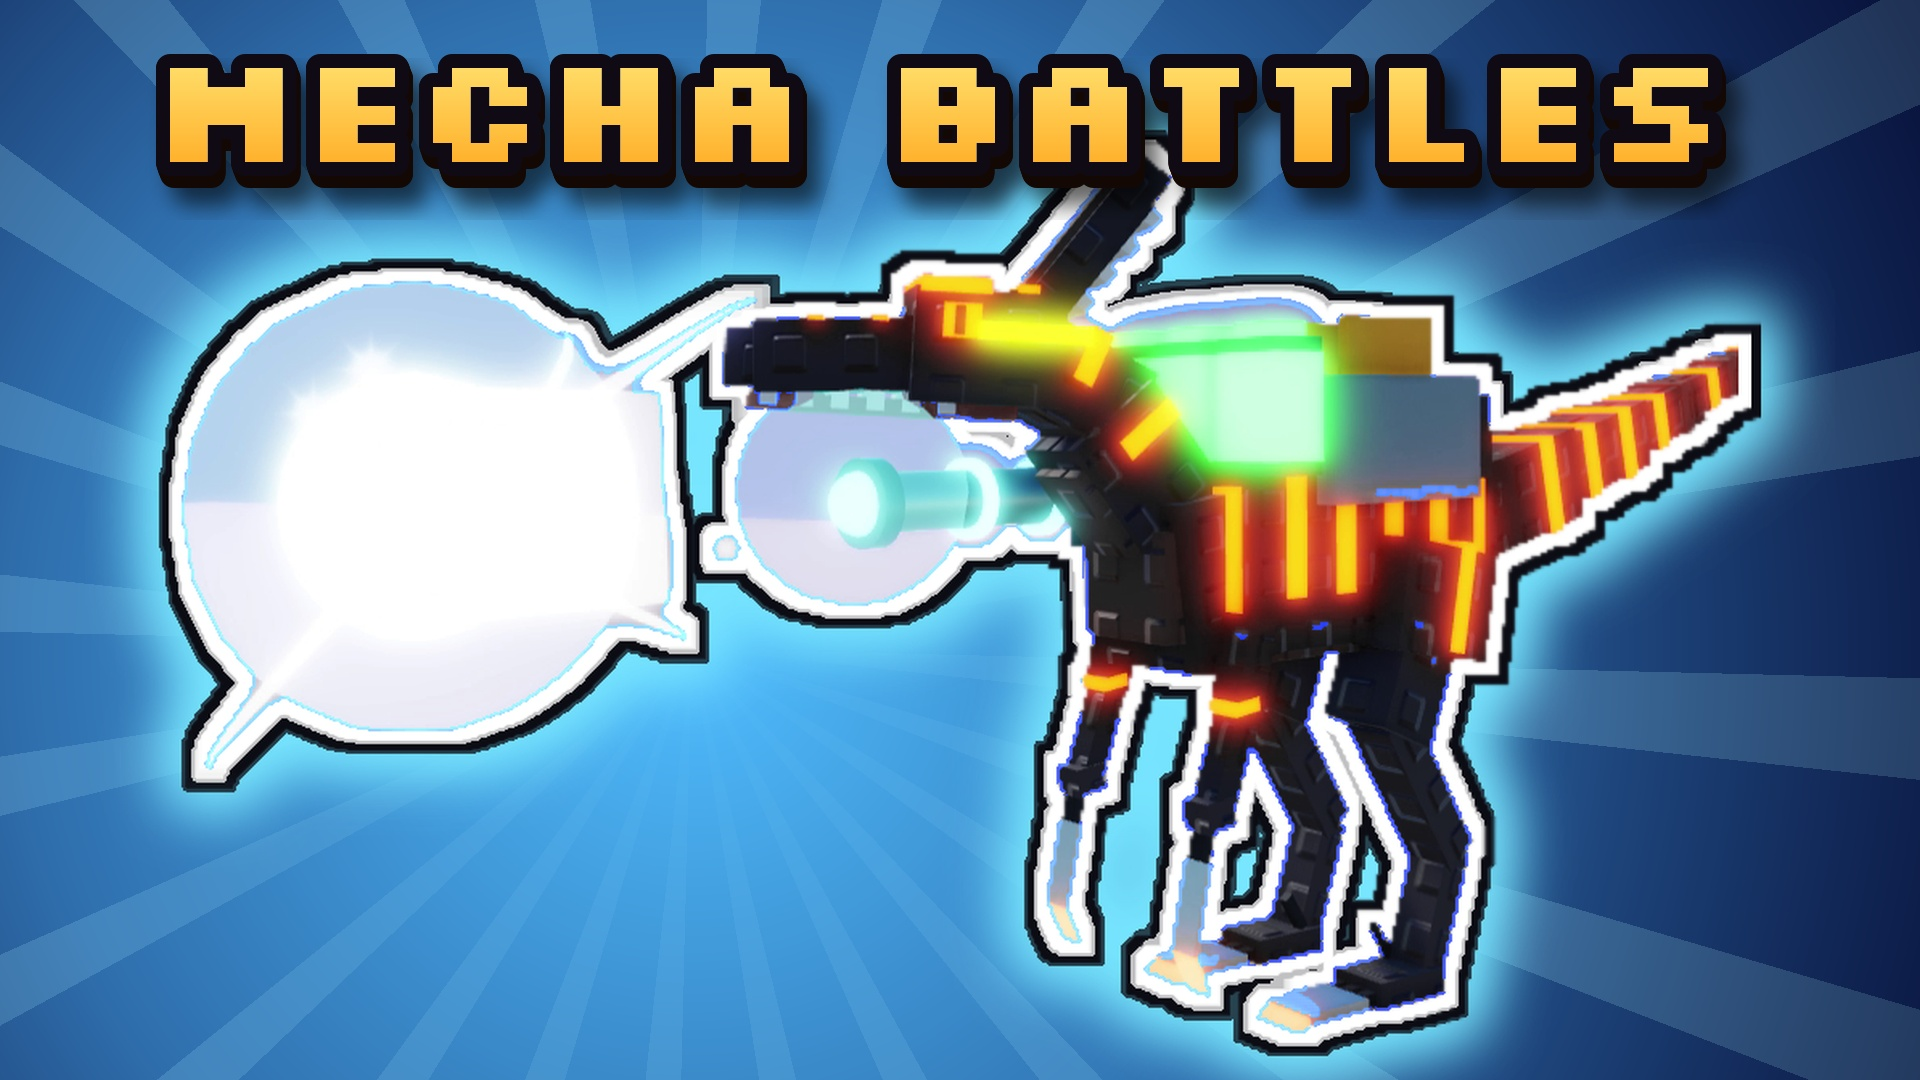
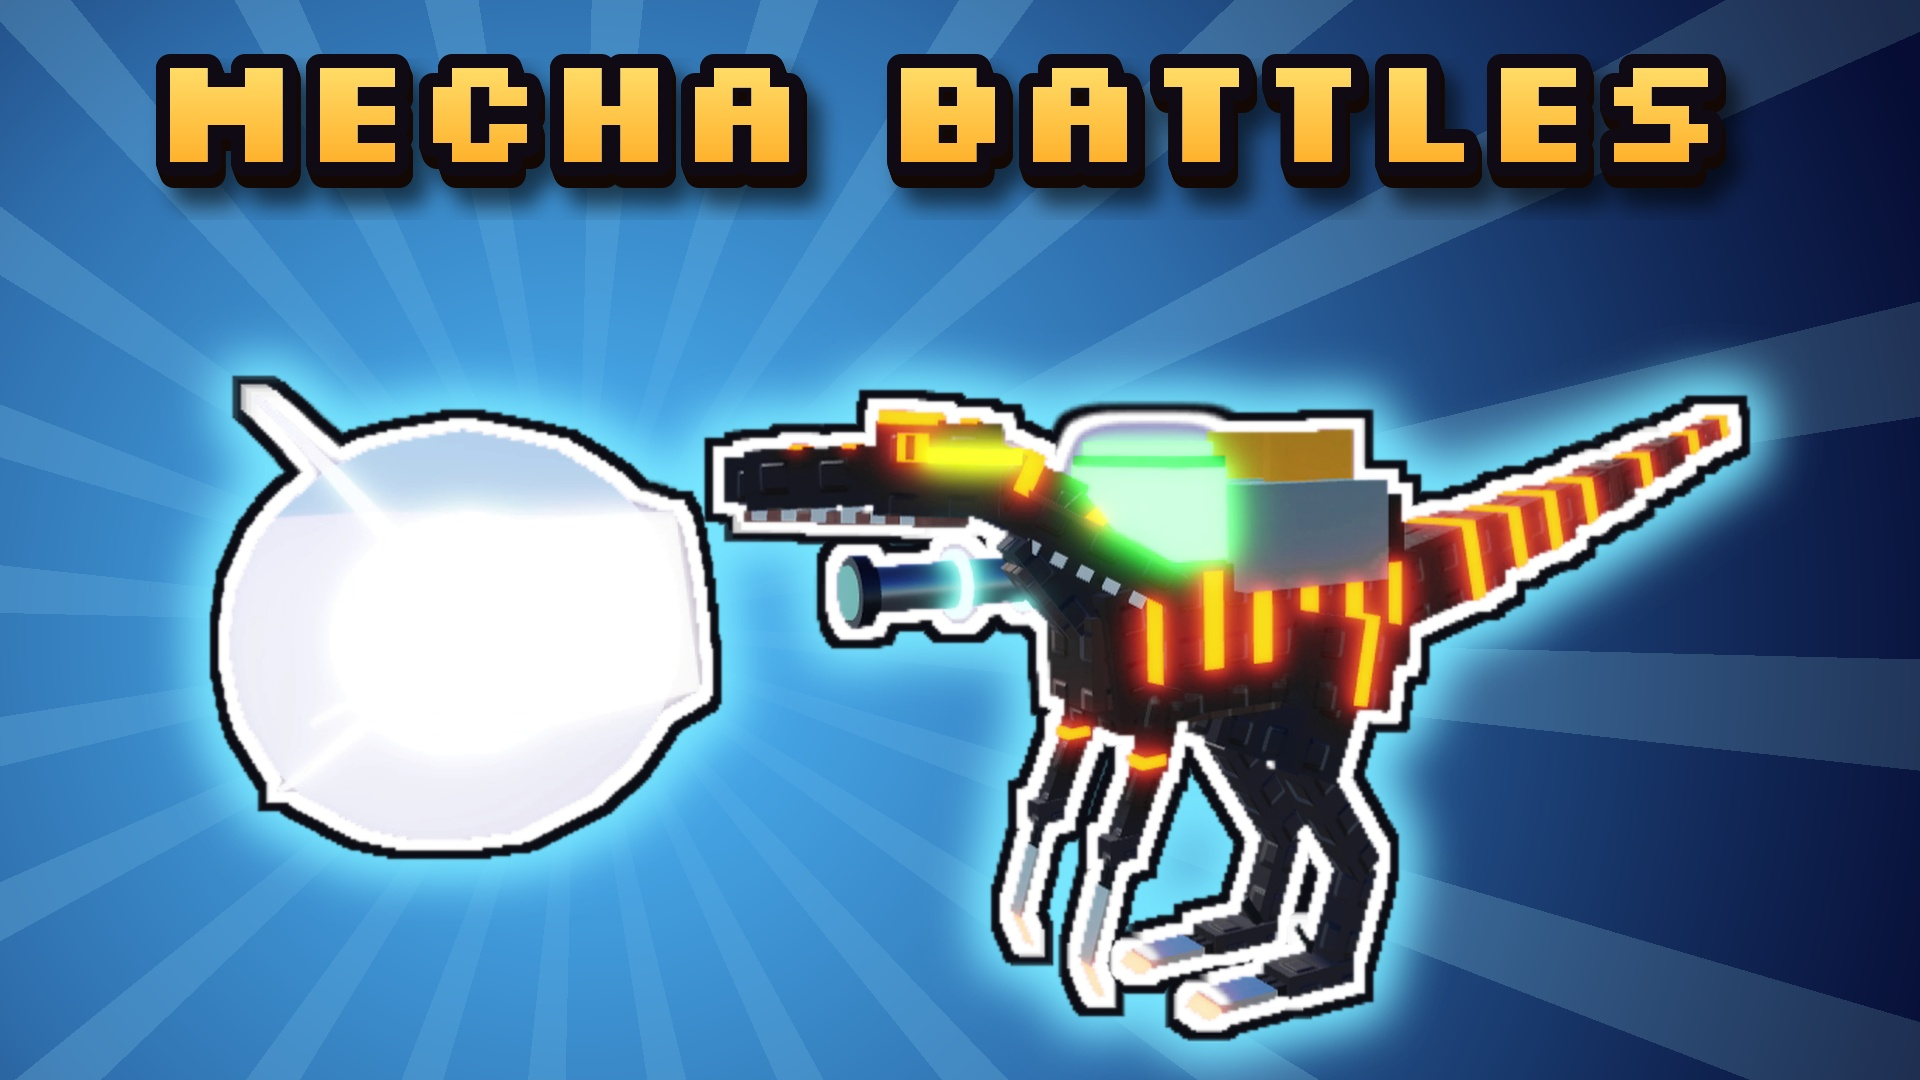
front page v1.0: MECHA BATTLES re-shot (one ball, face clear, muzzle flash hidden for the shot)
Claude-Session: https://claude.ai/code/session_014DiGAJ1xffrPRxmx8KX57j

diff --git a/tools/frontpage/t3build.py b/tools/frontpage/t3build.py
@@ -1,0 +1,25 @@
+import sys; sys.path.insert(0,'.')
+from comp import *
+import numpy as np, scipy.ndimage as nd
+W,H=1920,1080
+def clean(p,keep=2,pad=70,minfrac=0.02):
+    c=Image.open(p).copy(); w,h=c.size; c.paste((0,0,0,0),(0,0,int(w*0.16),int(h*0.10)))
+    arr=np.asarray(c).astype(np.float32); a=arr[...,3]
+    m=a>40; lab,n=nd.label(nd.binary_dilation(m,iterations=2)); sizes=nd.sum(m,lab,range(1,n+1))
+    ids=[i+1 for i in np.argsort(sizes)[::-1][:keep] if sizes[i]>m.sum()*minfrac]
+    arr[...,3]=np.where(np.isin(lab,ids),a,0)
+    im=Image.fromarray(arr.astype(np.uint8)); b=im.getchannel('A').point(lambda v:255 if v>40 else 0).getbbox(); im=im.crop(b)
+    out=Image.new('RGBA',(im.size[0]+pad*2,im.size[1]+pad*2),(0,0,0,0)); out.paste(im,(pad,pad)); return out
+def build(src,out,width=1700,cx=980,bottom=1120):
+    bg=burst(W,H,(80,190,255),(10,20,80),(160,230,255),cx=0.30,cy=0.58,n=24)
+    lay=outlined(clean(src),w1=8,w2=6,glow=(120,230,255))
+    s=width/lay.size[0]; L=lay.resize((int(lay.size[0]*s),int(lay.size[1]*s)),Image.LANCZOS)
+    if L.size[1]>900: s2=900/L.size[1]; L=L.resize((int(L.size[0]*s2),900),Image.LANCZOS)
+    bg.paste(L,(int(cx-L.size[0]/2),int(bottom-L.size[1])),L)
+    tx=text3d('MECHA BATTLES',150); bg.alpha_composite(tx,((W-tx.size[0])//2,40)); bg.convert('RGB').save(out,quality=95); return bg
+if __name__=='__main__':
+    ims=[]
+    for t in ['3.483','3.50','17.55']: ims.append(build('h/cut/s3_%s.png'%t,'final/t3b_%s.jpg'%t).convert('RGB').resize((640,360)))
+    o=Image.new('RGB',(640*3,360))
+    for i,im in enumerate(ims): o.paste(im,(i*640,0))
+    o.save('t3opts.jpg')

diff --git a/docs/plans/FRONT_PAGE_v0.1.md b/docs/plans/FRONT_PAGE_v0.1.md
@@ -60,3 +60,9 @@ Files (docs/front_page_v1.0/, copies on Kepu's PC in C:\Users\Kepu_\Videos\Mecha
 Title not picked (options 1-3 in the mockup); description approved as in the v0.2 mockup. Upload is Kepu's.
 Restored after each shoot: Play stopped, ModeTestPractice nil, SkillTestMaxAllEnabled false, Raptor slots empty, panels and
 window as before.
+- 20:19 Kepu: "that's literally glitchy as hell. There's two shocks and the raptor face is blocked." The second "shock" was the
+  cannon's muzzle flash (ScreechServer muzzleFlash part "ShockMuzzleFlash", a see-through ball at the barrel for 0.2 s)
+  sitting on the Raptor's face. Re-shot (recording 20-20-55) with that part hidden on the filming client only
+  (LocalTransparencyModifier 1, Play session), Raptor turned so the ball leaves past the camera on the left; frame 3.50 s:
+  one ball clear of the head, face and cannon visible. Built with tools/frontpage/t3build.py (keeps the two largest
+  cut-out pieces: the Raptor and the ball). A cyan re-tint of the ball was tried and dropped (it flattened the glow).
